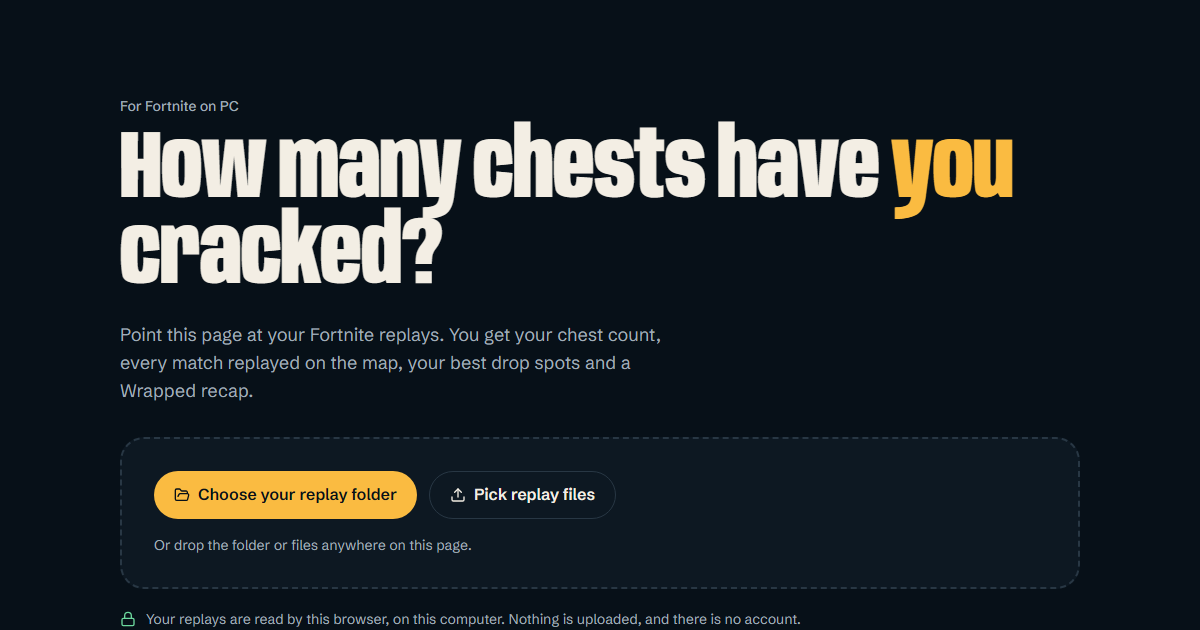
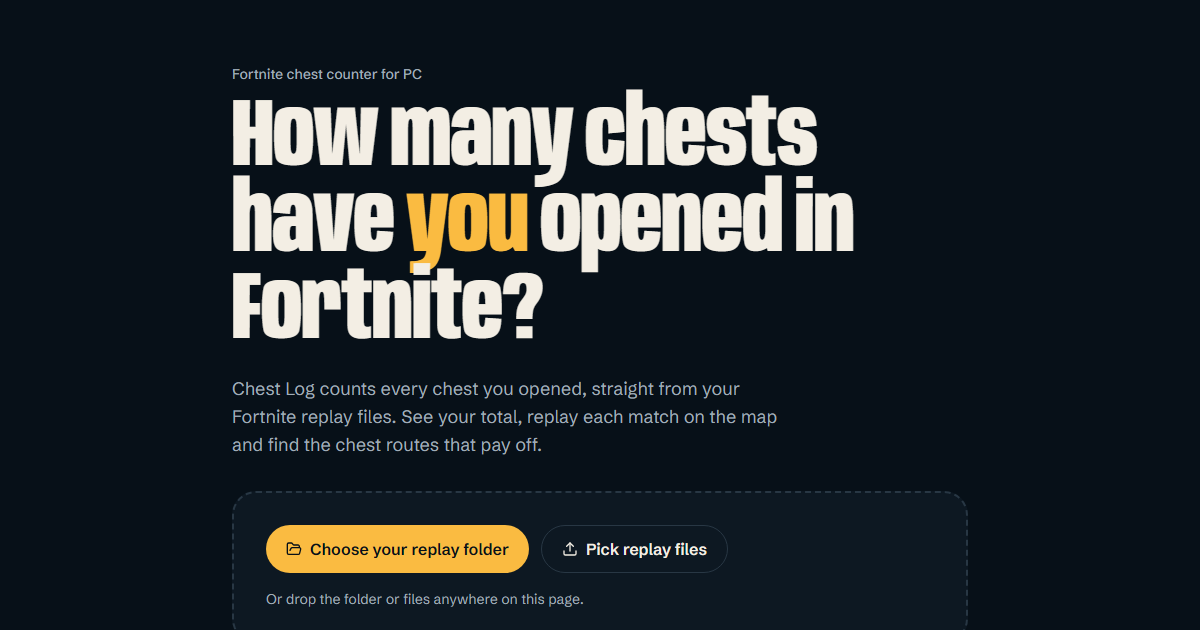
fix(hosted): keep the search title after load and refresh the share image
Review found that the app replaced the page title with "Chest Log" once
it mounted, and that the share image still showed the old headline and
named Wrapped.

The library mark now follows the root loader, so it is right for a
browser that already had a library and is cleared when the library is
gone. The end-to-end check waits for the import itself and covers the
title after load, robots.txt and the mark.

Changed region(s): [[0.0925, 0.0905, 0.8633, 0.9952]]

diff --git a/web/scripts/hosted-e2e.ts b/web/scripts/hosted-e2e.ts
@@ -31,8 +31,7 @@ const check = (ok: boolean, label: string) => {
 async function importAll() {
   const started = Date.now()
   await page.locator('input[type=file][accept=".replay"]').setInputFiles(files.map(name => new URL(name, replayDir).pathname.slice(1)))
-  await page.waitForURL(site + '/', { timeout: 15 * 60 * 1000 })
-  await page.getByText(/chests cracked in/).waitFor()
+  await page.getByText(/chests cracked in/).waitFor({ timeout: 15 * 60 * 1000 })
   return (Date.now() - started) / 1000
 }
 
@@ -47,6 +46,8 @@ await page.goto(site + '/matches', { waitUntil: 'networkidle' })
 check(page.url() === site + '/', 'an empty browser lands on the front page')
 check(await page.getByRole('heading', { name: /How many chests have you opened in Fortnite/ }).count() === 1, 'the front page shows the headline once')
 check(await page.getByRole('button', { name: 'Choose your replay folder' }).isVisible(), 'the front page offers the replay folder picker')
+check(/Fortnite Chest Counter/.test(await page.title()), 'the title survives the app loading')
+check((await (await fetch(site + '/robots.txt')).text()).startsWith('User-agent: *'), 'robots.txt is served as a file')
 console.log(`first import of ${files.length} replays took ${(await importAll()).toFixed(1)} s`)
 if (shots) await page.screenshot({ path: `${shots}/hosted-celebrate.png` })
 
@@ -105,6 +106,7 @@ const after = (await page.evaluate(readLibrary) as Library).week.total
 check(after === stored.week.total, `importing the same files again changes nothing (${after} chests) and took ${again.toFixed(1)} s`)
 
 await page.reload({ waitUntil: 'networkidle' })
+check(await page.evaluate(() => 'library' in document.documentElement.dataset), 'a returning visitor skips the front page copy')
 check(await page.getByText(/chests cracked in/).isVisible(), 'the library survives a reload')
 check(errors.length === 0, `no page errors or failed requests${errors.length ? `: ${errors.slice(0, 3).join(' | ')}` : ''}`)
 await browser.close()

diff --git a/web/src/routes/__root.tsx b/web/src/routes/__root.tsx
@@ -4,6 +4,8 @@ import { Clapperboard, Gem, PartyPopper, Plus, Route as RouteIcon, Swords } from
 import { Toaster } from 'sonner'
 import { hosted, isMissing, weekQuery } from '~/lib/queries'
 import { flags } from '~/lib/flags'
+import { markLibrary } from '~/library/import'
+import { site } from '~/seo/content'
 import { cn } from '~/lib/cn'
 import { LiveDot } from '~/components/live'
 
@@ -17,10 +19,14 @@ const everyTab = [
 // Clips are this PC's own recordings, so a hosted library has no Clips page.
 const tabs = everyTab.filter(tab => (!hosted || tab.to !== '/clips') && (flags.wrapped || tab.to !== '/wrapped'))
 
-const library = (queryClient: QueryClient) => queryClient.ensureQueryData(weekQuery).catch(error => {
-  if (hosted && isMissing(error)) return null
-  throw error
-})
+const library = async (queryClient: QueryClient) => {
+  const week = await queryClient.ensureQueryData(weekQuery).catch(error => {
+    if (hosted && isMissing(error)) return null
+    throw error
+  })
+  if (hosted) markLibrary(week !== null)
+  return week
+}
 
 export const Route = createRootRouteWithContext<{ queryClient: QueryClient }>()({
   beforeLoad: async ({ context, location }) => {
@@ -28,7 +34,8 @@ export const Route = createRootRouteWithContext<{ queryClient: QueryClient }>()(
     if (hosted && location.pathname !== '/' && !(await library(context.queryClient))) throw redirect({ to: '/' })
   },
   loader: ({ context }) => library(context.queryClient),
-  head: () => ({ meta: [{ title: 'Chest Log' }] }),
+  // The public front page keeps the title its HTML shipped with; other pages set their own.
+  head: () => ({ meta: [{ title: hosted ? site.title : 'Chest Log' }] }),
   component: Shell,
   errorComponent: ({ error }) => (
     <main className="mx-auto max-w-xl px-4 py-16">

diff --git a/web/src/library/import.ts b/web/src/library/import.ts
@@ -18,11 +18,11 @@ const set = (state: ImportState) => importStore.setState(() => state)
 const FILES_PER_WORKER = 20
 
 /**
- * Tells the page, before the app loads, that this browser has a library. The hosted build writes the front page
+ * Tells the page, before the app loads, whether this browser has a library. The hosted build writes the front page
  * copy into the HTML for search engines, and the mark keeps it from flashing at a returning visitor.
  */
 const LIBRARY_MARK = 'chest-log:library'
-const markLibrary = (present: boolean) => {
+export const markLibrary = (present: boolean) => {
   try {
     if (present) localStorage.setItem(LIBRARY_MARK, '1')
     else localStorage.removeItem(LIBRARY_MARK)
@@ -84,7 +84,6 @@ export async function importReplays(picked: File[]) {
     set({ phase: 'building', total: files.length, added: progress.added, failed: progress.failed })
     const built = await run({ type: 'build', timeZone }, () => undefined)
     if (built.type !== 'built') throw new Error('the library was not rebuilt')
-    markLibrary(true)
     set({ phase: 'done', added: progress.added, skipped, meta: built.meta, before, total: built.total })
   } catch (error) {
     set({ phase: 'error', message: error instanceof Error ? error.message : String(error) })
@@ -146,6 +145,5 @@ export async function droppedFiles(items: DataTransferItemList) {
 
 export async function forgetLibrary() {
   await clearLibrary()
-  markLibrary(false)
   set({ phase: 'idle' })
 }

diff --git a/web/vite.config.ts b/web/vite.config.ts
@@ -27,10 +27,11 @@ const hostedSite = (outDir: string): Plugin => {
   const out = (file: string) => new URL(`./${outDir}/${file}`, import.meta.url)
   const meta = (key: 'name' | 'property', id: string, content: string): HtmlTagDescriptor =>
     ({ tag: 'meta', attrs: { [key]: id, content }, injectTo: 'head' })
+  const text = (value: string) => value.replaceAll('&', '&amp;').replaceAll('<', '&lt;')
   const structured = [
     {
       '@context': 'https://schema.org', '@type': 'WebApplication', name: site.name, description: site.description,
-      ...(origin && { url: `${origin}/` }), applicationCategory: 'GameApplication', operatingSystem: 'Windows',
+      ...(origin && { url: `${origin}/` }), applicationCategory: 'UtilitiesApplication', operatingSystem: 'Windows',
       offers: { '@type': 'Offer', price: '0', priceCurrency: 'USD' },
     },
     {
@@ -43,7 +44,7 @@ const hostedSite = (outDir: string): Plugin => {
     apply: 'build',
     transformIndexHtml: html => ({
       html: html
-        .replace(/<title>[^<]*<\/title>/, () => `<title>${site.title}</title>`)
+        .replace(/<title>[^<]*<\/title>/, () => `<title>${text(site.title)}</title>`)
         .replaceAll(/\s*<meta (?:name="(?:description|twitter:card)"|property="og:[^"]*") [^>]*>/g, '')
         .replace('<div id="root"></div>', () => `<div id="root">${renderToStaticMarkup(createElement(StaticLanding))}</div>`),
       tags: [
